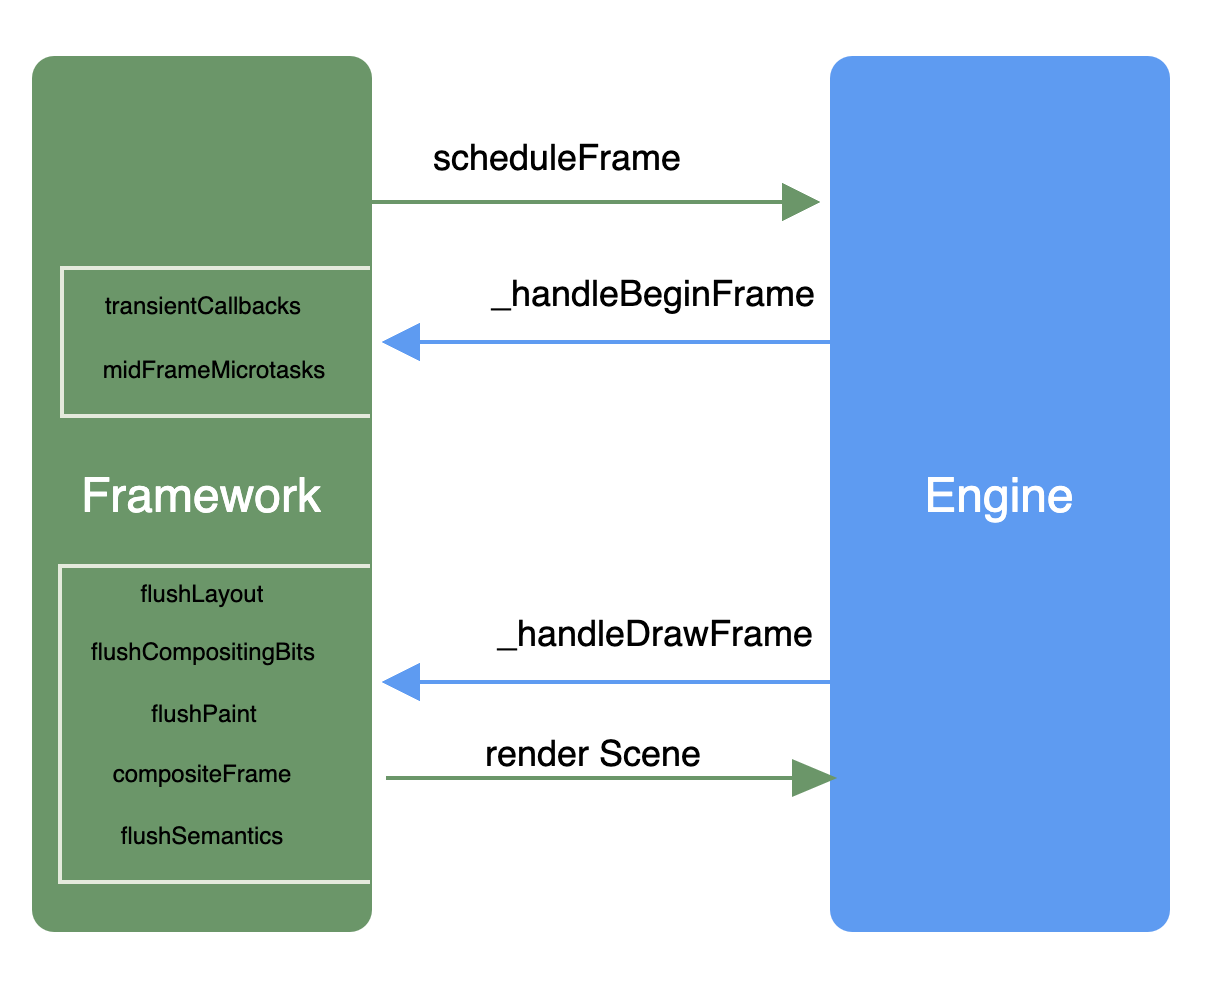
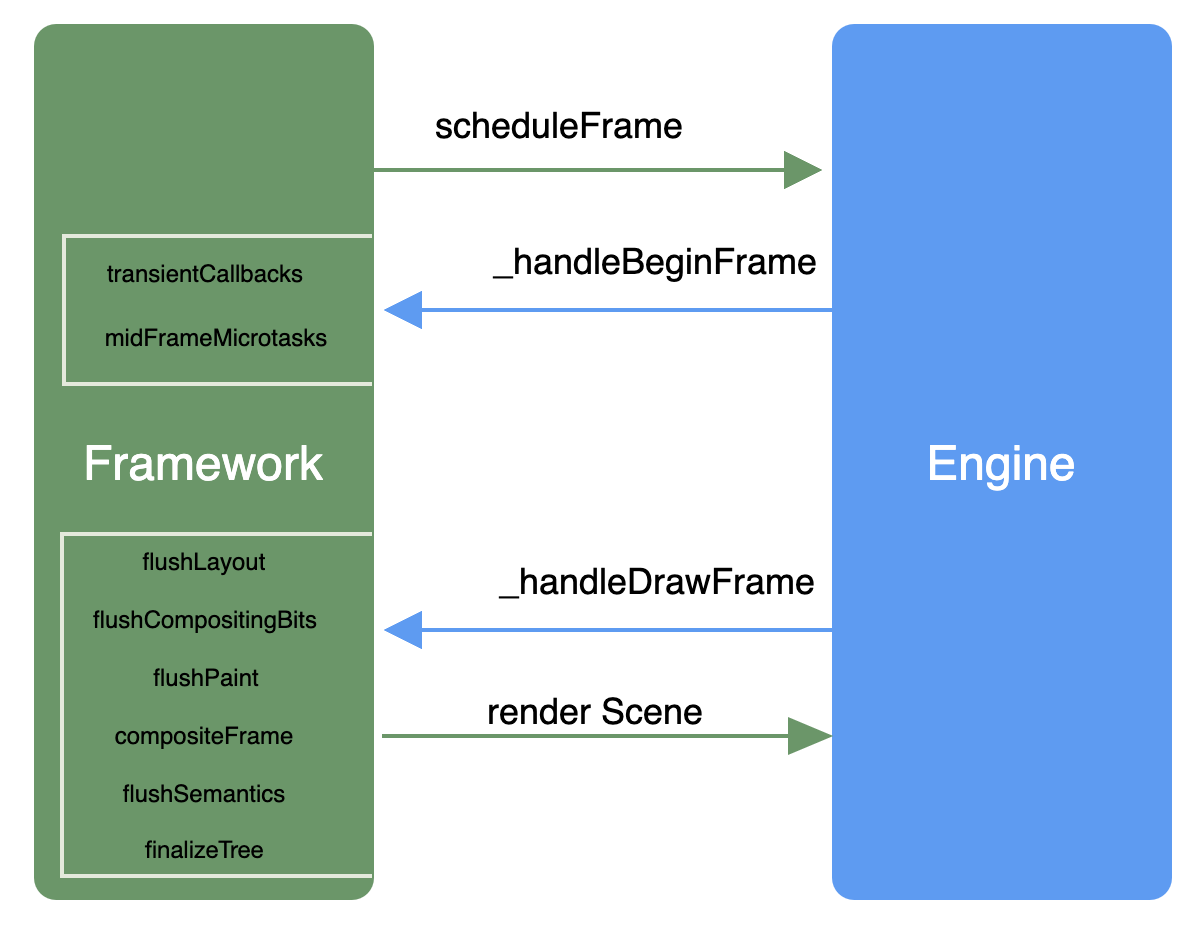
update

diff --git a/README.md b/README.md
@@ -244,8 +244,6 @@ ui.Window get window => ui.window;
   }
   ```
   
-  
-  
 - PaintingBinding
 
   绑定绘制库,做一些和图片缓存相关的工作
@@ -372,55 +370,112 @@ ui.Window get window => ui.window;
 
   可以发现Rendering Pipeline就是对Render Tree进行加工操作并最终返回一个Scene的过程,完全看不到Widget和Element的影子,这也再次印证了RenderFlutterBinding是直接和渲染层打交道的,可以在这之上编写一个更higher-level的库来实现一个UI框架.
 
-  如果说Flutter是一个响应式的UI框架,Render Tree代表UI,那么Widget和Element就代表了响应式,就好比React中VirtualDOM和Dom之间的关系
+  如果说Flutter是一个响应式的UI框架,Render Tree代表UI,那么Widget和Element就代表了响应式,就好比React中VirtualDOM和Dom之间的关系.
 
 - WidgetsBinding
 
-  	to be continued...
+  这层的binding相比前面的binding是在更高一层上做了初始化操作,前面的binding主要涉及render layer,而这层binding主要涉及widgets layer.也可以这么说,这层binding做了对render tree的代理(即widget)所封装的响应式逻辑的初始化.
 
-- WidgetsBinding
-  - The glue between the widgets layer and the Flutter engine
-  - widget层与Engine引擎的粘合
-  - _buildOwner
-    - 在WidgetsBinding中主要做了一个_buildOwner的赋值并设置了一些系统回调
-    - 赋值类型为BuildOwner
-    - BuildOwner主要用于管理widget framework,跟踪哪些widgets需要更新,并标记elements是否为脏数据来决定elements是否需要更新
-    - BuildOwner是由操作系统来驱动的
-    - 一个Element树只能有一个BuildOwner,也可以多建几个BuildOwner来管理离屏Element树
+  WidgetsBinding在初始化的时候基本上就做了两件事情:
 
-以上就是runApp中初始化的动作,初始化完成之后会调用scheduleAttachRootWidget挂载根节点
+  - 实例化了一个所有Element都持有并共享的BuildOwner,每个Element实例都通过owner字段引用该实例.这点和PipelineOwner差不多.一棵Element树只能有一个BuildOwner,但也可以多建几个BuildOwner来管理离屏的Element树
+    -  ```dart
+        _buildOwner = BuildOwner();
+       ```
+    
+  - 绑定了window上的两个回调
+    - ```dart
+        window.onLocaleChanged = handleLocaleChanged;
+        window.onAccessibilityFeaturesChanged = handleAccessibilityFeaturesChanged;
+      ```
+  
+   BuildOwner主要作用就是跟踪维护改动的widgets和elements.
+  
+   - 它内部维护了两个list:
+      - _InactiveElements
+        - 严格来说这是一个内部定义了一个list的类
+        - 存储处于inactive状态的element
+      - _dirtyElements
+        - 存储需要重新被构建的element
+    
+   - 还定义了两个重要方法
+      - scheduleBuildFor
+        - 由element实例调用,把自己添加进_dirtyElements
+        ```dart
+          void scheduleBuildFor(Element element) {
+            if (!_scheduledFlushDirtyElements && onBuildScheduled != null) {
+              _scheduledFlushDirtyElements = true;
+              onBuildScheduled();
+            }
+            _dirtyElements.add(element);
+            element._inDirtyList = true;
+          }
+        ```
+        在StateFulWidget中调用setState刷新UI的时候其实调用的就是这个方法,setState把一个element插入到_dirtyElements中,并发出一帧的请求来重新build在\_dirtyElements中的元素
+        ```dart
+        //setState方法
+          void setState(VoidCallback fn) {
+            ...
+            _element.markNeedsBuild();
+          }
+        //markNeedsBuild方法
+          void markNeedsBuild() {
+            _dirty = true;
+            owner.scheduleBuildFor(this);
+          }
+        ```
+        
+      - buildScope
+        - 重构_dirtyElements中的element,会根据element的类型不同调用不同performBuild
+        - 这个方法一般会在onDrawFrame的回调里调用,因为这个WidgetsBinding重写了RendererBinding里的drawFrame方法
+        ```dart
+            @override
+            void drawFrame() {
+              ...
+              buildOwner.buildScope(renderViewElement);
+              super.drawFrame();
+              buildOwner.finalizeTree();
+            }
+        ```
+        可以发现在PipelineOwner调用drawFrame之前会调用buildScope方法,在PipelineOwner调用drawFrame之后会调用finalizeTree方法,也就是说其实在渲染流水线的Layout阶段之前其实还有一个Build阶段,这个Build阶段主要就是用来更新widgets和render object的.
+        
+        所以当用widgets framework对渲染层进行包装形成响应式的时候一个更完整的渲染流水线应该是这样的
+        
+        ![newpipe](./images/newpipe.png)
+
+以上一个Flutter应用基于Widgets Framework的初始化工作就完成了,紧接着在runApp中做的第二件事情就是调用scheduleAttachRootWidget函数
+
 ```dart
- @protected
-  void scheduleAttachRootWidget(Widget rootWidget) {
-    Timer.run(() {
-      attachRootWidget(rootWidget);
-    });
+    void scheduleAttachRootWidget(Widget rootWidget) {
+      Timer.run(() {
+        attachRootWidget(rootWidget);
+      });
+    }
+
+    void attachRootWidget(Widget rootWidget) {
+      _readyToProduceFrames = true;
+      _renderViewElement = RenderObjectToWidgetAdapter<RenderBox>(
+        container: renderView,
+        debugShortDescription: '[root]',
+        child: rootWidget,
+      ).attachToRenderTree(buildOwner, renderViewElement as RenderObjectToWidgetElement<RenderBox>);
   }
 ```
-挂载根节点的操作是在一个异步队列Timer.run中调用attachRootWidget方法进行的
-```dart
- void attachRootWidget(Widget rootWidget) {
-    _readyToProduceFrames = true;
-    _renderViewElement = RenderObjectToWidgetAdapter<RenderBox>(
-      container: renderView,
-      debugShortDescription: '[root]',
-      child: rootWidget,
-    ).attachToRenderTree(buildOwner, renderViewElement as RenderObjectToWidgetElement<RenderBox>);
-  }
-```
-在attachRootWidget中就是做了一个通过attachToRenderTree方法的返回值为\_renderViewElement变量赋值的操作_renderViewElement是一个Element类型,代表Element树的根结点.
 
-attatchToRenderTree方法是RenderObjectToWidgetAdapter这个widget适配器的一个方法,它起到一个桥梁作用,把RenderObject、Element还有Widget本身关联起来
+这里的名字起的很有意思,attachRootWidget、attachToRenderTree和传递的参数名字:container、child.
 
-RenderObjectToWidgetAdapter的构造函数主要有两个参数
+按字面意思widget是子,render object是容器,所以要attatch widget.从这种命名上可以窥见Flutter作者对render object和widget的心理定位:widget只是用来配置render object的附属.
 
-- container
-  - 是在RendererBinding中初始化时赋过值的renderView变量,也就是render tree的根节点
-- child
-  - runApp中传入的根widget
+所以说如果没有响应式这一层Framework,Flutter中的树结构应该是很直观和很好理解的,就一棵render tree,这个render tree上的每个节点都有引擎如何渲染的描述信息,但是在加入了响应式这一层Framework后情况就变得有些复杂了.
+
+有了Widgets Framework这一层后Flutter和我们直接打交道的就不再是渲染层而是widgets层.就好像用了React后,我们就很少和真实的DOM树打交道也很少会调用appendChild、createElement这样的接口,而是直接使用Componet这样的组件.Component就相当于Widget,是个配置对象,这个配置对象会被createElement转化成VirtualDOM,最后通过render函数渲染成真实的DOM,也就是说VirtualDOM是Component和DOM之间的桥梁.
+
+同样的,在FLutter中,Element就是Widget和RenderObject之间的桥梁,Widget也会被一个名为createElement的函数转化成一个Element,最后通过buildScope把配置信息更新到RenderObject上.
+
+在attachToRenderTree中,就是创建了一个类型为RenderObjectToWidgetElement的Element根结点,然后再调用buildScope函数把element上的widget信息更新到render tree中.
 
 ```dart
-RenderObjectToWidgetElement<T> attachToRenderTree(BuildOwner owner, [ RenderObjectToWidgetElement<T> element ]) {
+    RenderObjectToWidgetElement<T> attachToRenderTree(BuildOwner owner, [ RenderObjectToWidgetElement<T> element ]) {
     if (element == null) {
       owner.lockState(() {
         element = createElement();
@@ -430,94 +485,30 @@ RenderObjectToWidgetElement<T> attachToRenderTree(BuildOwner owner, [ RenderObje
       owner.buildScope(element, () {
         element.mount(null, null);
       });
-      // This is most likely the first time the framework is ready to produce
-      // a frame. Ensure that we are asked for one.
       SchedulerBinding.instance.ensureVisualUpdate();
     } else {
       element._newWidget = this;
       element.markNeedsBuild();
     }
     return element;
-}
-```
-
-可以看到attatchToRenderTree主要就是返回了一个createElement方法创建的element
-
-```dart
- @override
-  RenderObjectToWidgetElement<T> createElement() => RenderObjectToWidgetElement<T>(this);
-```
-
-方法中的RenderObjectToWidgetElement继承自RootRenderObjectElement,同时RootRenderObjectElement  >> RenderObjectElement >> Element
-
-RenderObjectToWidgetElement的构造函数传入了this这个widget适配器本身
-
-在RenderObjectElement中调用了RenderObjectToWidgetAdapter的createRenderObject方法对\_renderObject进行了赋值,赋的值就是传给RenderObjectToWidgetAdapter构造函数的container参数,也就是根render object
-
-in RenderObjectElement:
-```dart
-  @override
-  RenderObject get renderObject => _renderObject;
-  _renderObject = widget.createRenderObject(this);
-```
-in RenderObjectToWidgetAdapter:
-```dart
-@override
-  RenderObjectWithChildMixin<T> createRenderObject(BuildContext context) => container;
-```
-
-在Element类中,对\_widget变量进行了赋值,这个widget就是前面调用createElement时传入的this,也就是RenderObjectToWidgetAdapter本身
-```dart
-Element(Widget widget)
-    : assert(widget != null),
-      _widget = widget;
-
-```
-
-所以_renderViewElement是一个包含了widget和renderObject属性的Element变量.这样widget、element、renderObject就关联了起来.
-
-紧接着就是执行scheduleWarmUpFrame方法开始渲染流水线,在不等Vsync到来的情况下直接渲染出第一帧frame发送给engine.
-
-handleBeginFrame、handleDrawFrame这些任务队列就很熟悉了
-
-```dart
-  void scheduleWarmUpFrame() {
-    if (_warmUpFrame || schedulerPhase != SchedulerPhase.idle)
-      return;
-
-    _warmUpFrame = true;
-    Timeline.startSync('Warm-up frame');
-    final bool hadScheduledFrame = _hasScheduledFrame;
-    // We use timers here to ensure that microtasks flush in between.
-    Timer.run(() {
-      assert(_warmUpFrame);
-      handleBeginFrame(null);
-    });
-    Timer.run(() {
-      assert(_warmUpFrame);
-      handleDrawFrame();
-      // We call resetEpoch after this frame so that, in the hot reload case,
-      // the very next frame pretends to have occurred immediately after this
-      // warm-up frame. The warm-up frame's timestamp will typically be far in
-      // the past (the time of the last real frame), so if we didn't reset the
-      // epoch we would see a sudden jump from the old time in the warm-up frame
-      // to the new time in the "real" frame. The biggest problem with this is
-      // that implicit animations end up being triggered at the old time and
-      // then skipping every frame and finishing in the new time.
-      resetEpoch();
-      _warmUpFrame = false;
-      if (hadScheduledFrame)
-        scheduleFrame();
-    });
-
-    // Lock events so touch events etc don't insert themselves until the
-    // scheduled frame has finished.
-    lockEvents(() async {
-      await endOfFrame;
-      Timeline.finishSync();
-    });
   }
 ```
+
+render tree中的渲染信息已万事俱备,就差一个垂直同步信号来一场渲染流水线render出画面来,但是在runApp里已经迫不及待了,不等垂直信号而是调用了scheduleWarmUpFrame函数直接开启一个Rendering Pipeline渲染出首屏.
+```dart
+    void scheduleWarmUpFrame() {
+      ...  
+      Timer.run(() {
+        handleBeginFrame(null);
+      });
+      Timer.run(() {
+        handleDrawFrame();
+      });
+      ...
+  }
+```
+
+
 
 ### Widget
 
